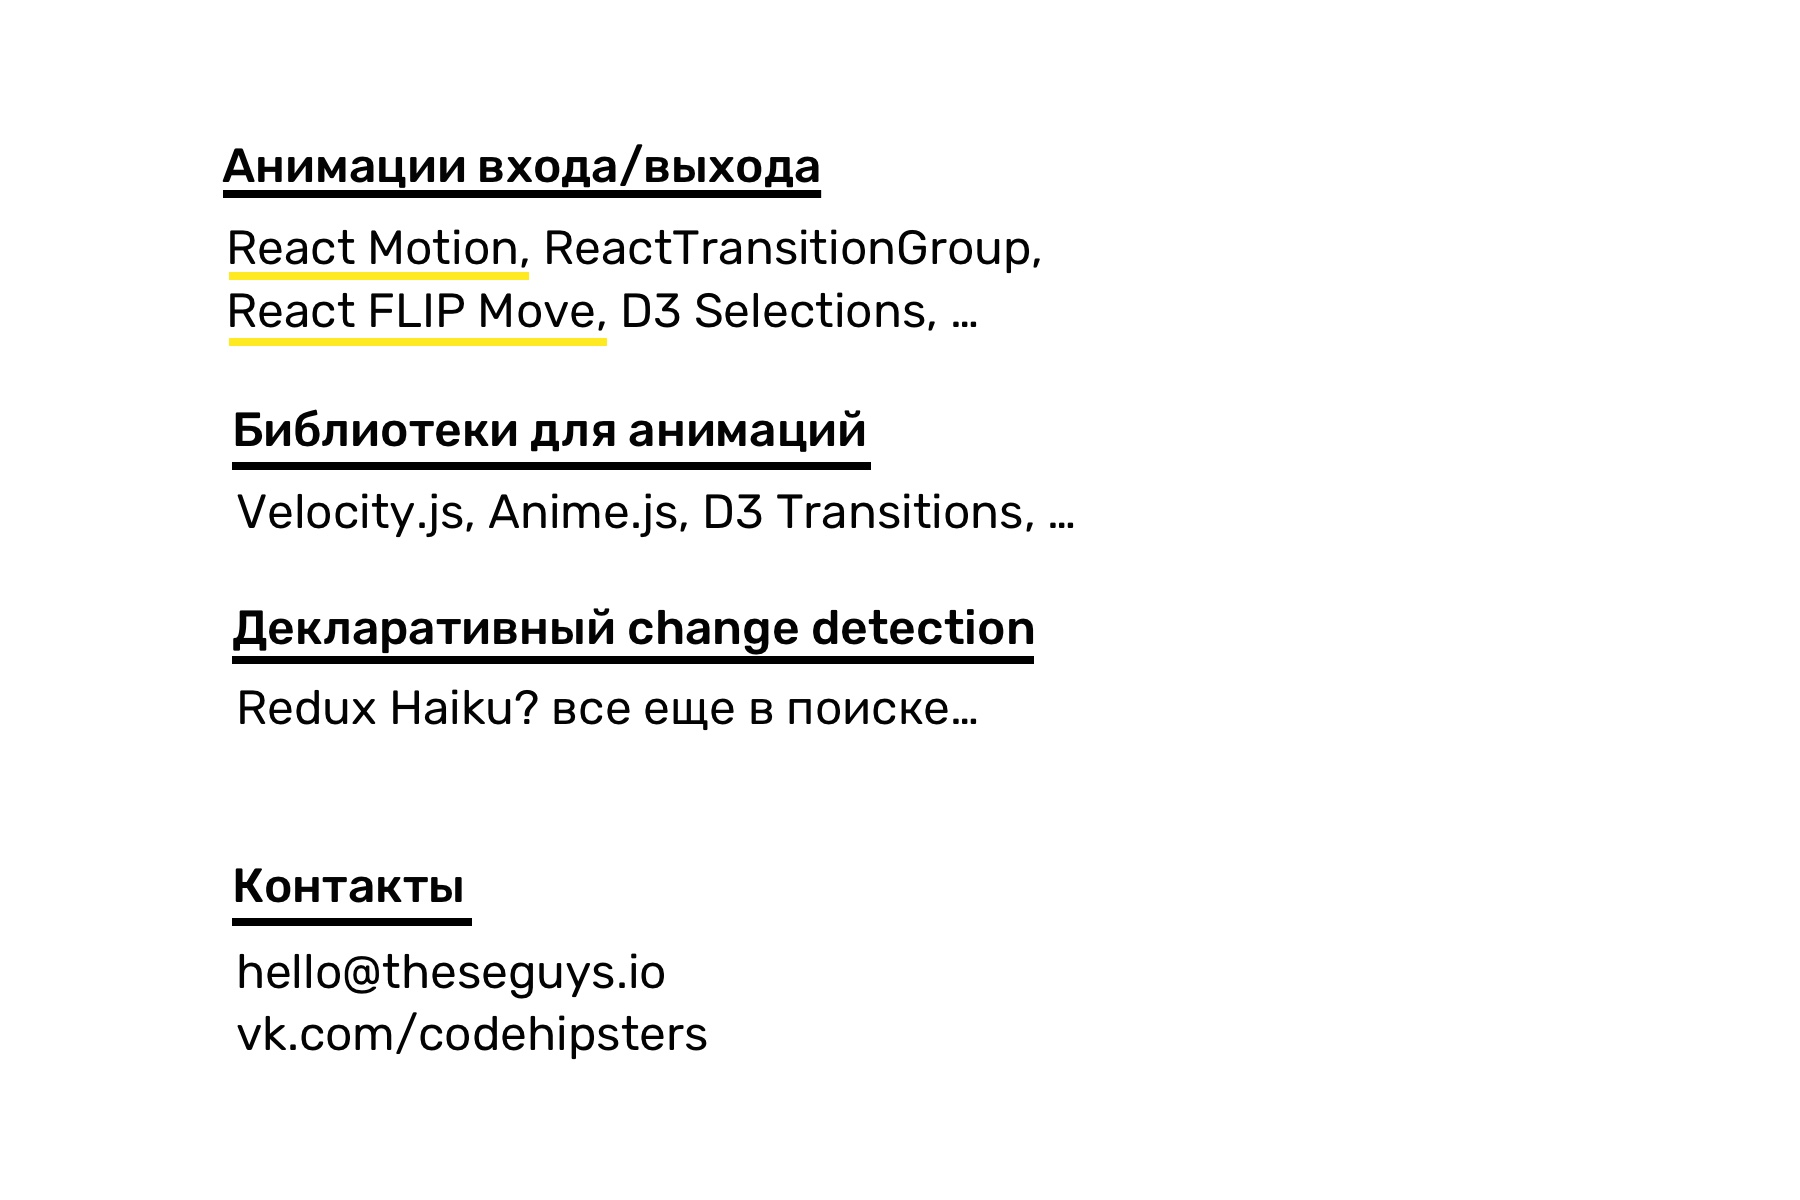
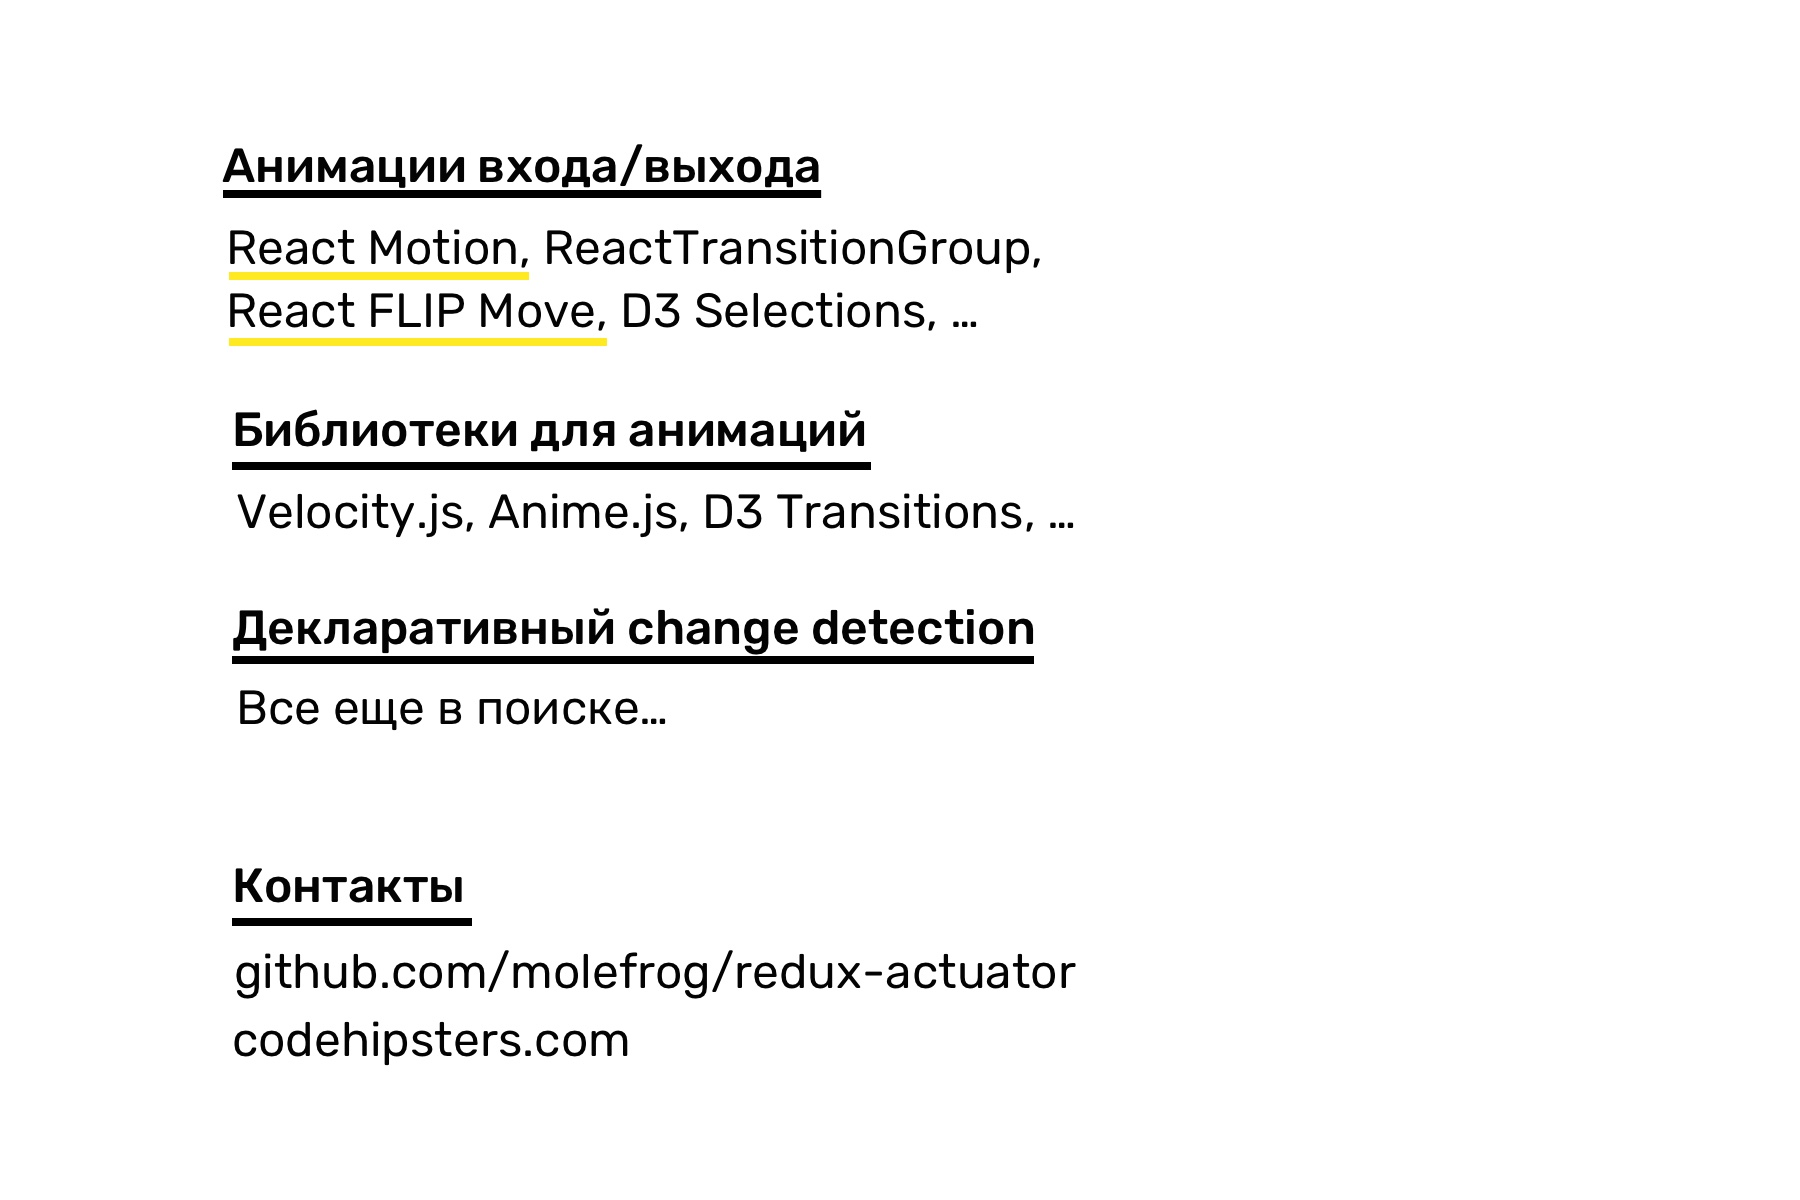
Update slides: about author, resources etc.

Changed region(s): [[0.1244, 0.8017, 0.5911, 0.8942], [0.1244, 0.555, 0.5289, 0.6167]]

diff --git a/src/presentation.js b/src/presentation.js
@@ -16,7 +16,7 @@ const DirtyAnimations = (props) =>
       Грязные анимации в мире состояний
     </TextSlide>
 
-    <Slide name='О докладчике' image='/images/alyosha.png' />
+    <Slide name='О докладчике' image='/images/about-author.jpg' />
 
     <TextSlide overlay={0.2}
       name='React — Automatic View Library' image='/images/react.gif'
@@ -79,10 +79,19 @@ const DirtyAnimations = (props) =>
 
     <PollsSlide name='Правильно построенные «грязные компоненты» удобно тестировать' />
 
+    <TextSlide overlay={0.2}
+      name='Представляем Redux Actuator!'
+      image='/images/robot-dance.gif'
+      subText='github.com/molefrog/redux-actuator' >
+      Redux Actuator
+    </TextSlide>
+
     <Slide
       name='Redux Actuator позволяет слать события компонентам через Redux store'>
       <TalkingHeads />
     </Slide>
+
+    <Slide name='Актуатор в действии' image='/images/actuator-code.jpg' />
 
     <Slide
       name='Redux Actuator поддерживает механизм каналов'>
